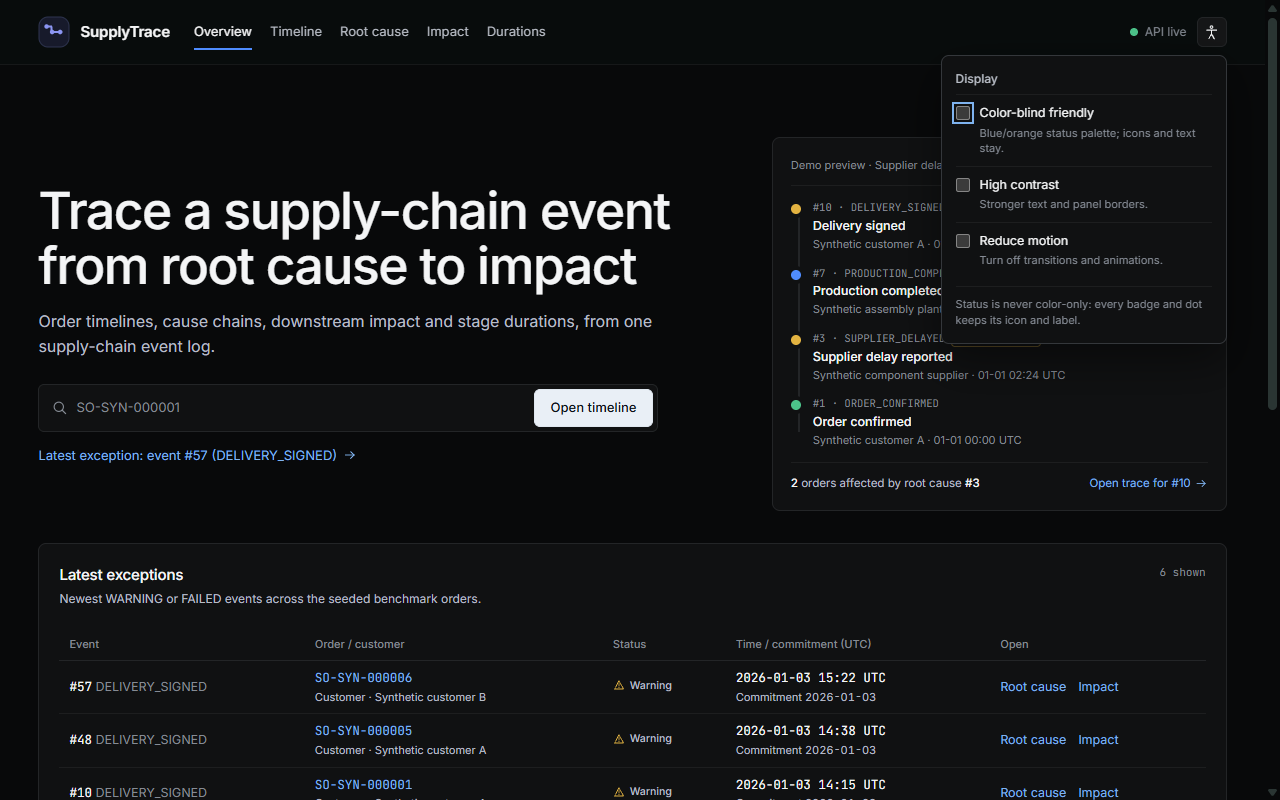
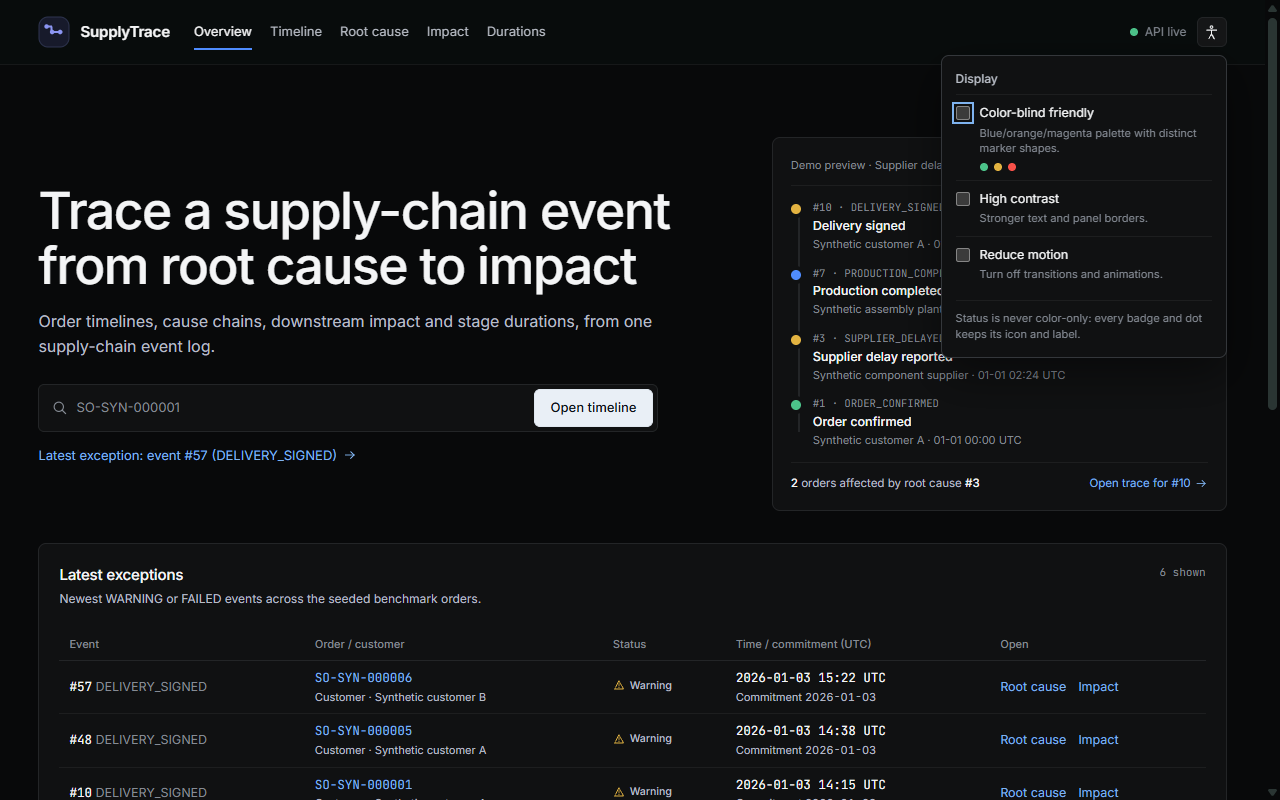
fix(frontend): make color-blind mode visibly distinct
Use a blue/orange/magenta palette and distinct status marker shapes (square warning, diamond failed, hollow cancelled) instead of only shifting colors. Add a status swatch preview to the Display menu and refresh the accessibility screenshots.

Changed region(s): [[0.75, 0.1562, 0.9375, 0.3438], [0.75, 0.375, 0.9375, 0.4375]]

diff --git a/frontend/src/styles.css b/frontend/src/styles.css
@@ -31,11 +31,11 @@
 
 /* Display preferences applied from the header menu. */
 :root[data-color-blind='true'] {
-  --good: #009e73;
+  --good: #56b4e9;
   --warning: #e69f00;
   --serious: #d55e00;
   --critical: #cc79a7;
-  --info: #56b4e9;
+  --info: #009e73;
   --cancelled: #9aa0a6;
   --accent: #0072b2;
   --accent-strong: #56b4e9;
@@ -339,6 +339,70 @@ button {
   color: var(--muted);
   font-size: 11px;
   line-height: 1.4;
+}
+
+.display__preview {
+  display: flex;
+  grid-column: 2;
+  gap: 6px;
+  margin-top: 3px;
+}
+
+.display__swatch {
+  width: 8px;
+  height: 8px;
+  border-radius: 50%;
+}
+
+.display__swatch--good {
+  background: var(--good);
+}
+
+.display__swatch--warning {
+  background: var(--warning);
+}
+
+.display__swatch--critical {
+  background: var(--critical);
+}
+
+:root[data-color-blind='true'] .display__swatch--warning {
+  border-radius: 1px;
+}
+
+:root[data-color-blind='true'] .display__swatch--critical {
+  border-radius: 1px;
+  transform: rotate(45deg);
+}
+
+:root[data-color-blind='true'] .timeline__rail--warning .timeline__dot,
+:root[data-color-blind='true'] .chain__dot--warning,
+:root[data-color-blind='true'] .status-dot--warning .status-dot__mark {
+  border-radius: 1px;
+}
+
+:root[data-color-blind='true'] .timeline__rail--critical .timeline__dot,
+:root[data-color-blind='true'] .status-dot--critical .status-dot__mark {
+  border-radius: 1px;
+  transform: rotate(45deg);
+}
+
+:root[data-color-blind='true'] .chain__dot--critical {
+  border-radius: 1px;
+  transform: translateX(-50%) rotate(45deg);
+}
+
+:root[data-color-blind='true'] .timeline__rail--muted .timeline__dot,
+:root[data-color-blind='true'] .chain__dot--muted,
+:root[data-color-blind='true'] .status-dot--muted .status-dot__mark {
+  background: transparent;
+  box-shadow: inset 0 0 0 2px var(--cancelled);
+}
+
+:root[data-color-blind='true'] .timeline__rail--muted .timeline__dot {
+  box-shadow:
+    inset 0 0 0 2px var(--cancelled),
+    0 0 0 4px var(--page);
 }
 
 .display__note {

diff --git a/frontend/src/components/DisplayMenu.tsx b/frontend/src/components/DisplayMenu.tsx
@@ -46,7 +46,7 @@ const OPTIONS: Array<{
   {
     key: 'colorBlind',
     label: 'Color-blind friendly',
-    hint: 'Blue/orange status palette; icons and text stay.',
+    hint: 'Blue/orange/magenta palette with distinct marker shapes.',
   },
   {
     key: 'highContrast',
@@ -136,6 +136,13 @@ export function DisplayMenu() {
               />
               <span className="display__option-label">{option.label}</span>
               <span className="display__option-hint">{option.hint}</span>
+              {option.key === 'colorBlind' ? (
+                <span className="display__preview" aria-hidden="true">
+                  <span className="display__swatch display__swatch--good" />
+                  <span className="display__swatch display__swatch--warning" />
+                  <span className="display__swatch display__swatch--critical" />
+                </span>
+              ) : null}
             </label>
           ))}
           <p className="display__note">

diff --git a/docs/part4/README.md b/docs/part4/README.md
@@ -53,7 +53,7 @@ Precision Dark：中性石墨表面、发丝边框、单一蓝色强调色；Nor
 - 最新异常表补充客户与承诺日期（订单号/时间下方副行），耗时页主指标改为 `Slowest P90`，平均值保留在副文案和图表中。
 - 导航以 sessionStorage 记住最近一组有效上下文（订单、事件及其所属订单）；从事件页回到 Overview 后，Timeline / Root cause / Impact 不再跳回 demo 默认值，事件导航链接也继续带 `?order=`。从事件进入订单时间线后，该订单的 Root cause / Impact 保持刚看过的事件；直接打开订单时由时间线发布该订单最新异常作为锚点，不会落到另一个订单的场景根事件。
 - 导航逻辑不绑定具体订单号/事件号：订单页来自时间线响应，事件页来自 URL；demo 订单列表、场景映射和默认值集中在 `demo.ts`。接入真实订单时把服务端订单列表传给 `useRecentExceptions(orderNumbers)` 并替换演示默认值即可；不带 `?order=` 的真实事件深链还需后端在事件响应中补 `order_number`。
-- `npm run typecheck`、`npm run build`、`npm test` 通过（8 个测试文件、43 项测试）；路由级代码分割后主包 293.2 kB（gzip 92.3 kB），耗时页 378.1 kB（gzip 108.9 kB，含 Recharts）。
+- `npm run typecheck`、`npm run build`、`npm test` 通过（8 个测试文件、43 项测试）；路由级代码分割后主包 293.6 kB（gzip 92.4 kB），耗时页 378.1 kB（gzip 108.9 kB，含 Recharts）。
 - 数据 GET 请求对网络错误和 502/503/504 自动重试一次（约 300 ms 后）；懒加载 chunk 失效时 `ErrorBoundary` 自动刷新一次，减少偶发错误页需要手动刷新的情况。
 
 ## 三个基准场景的界面证据

diff --git a/frontend/README.md b/frontend/README.md
@@ -120,6 +120,6 @@ frontend/
 - `npm test` 通过：8 个测试文件、43 项测试（ID 解析、日期解析、阶段统计、图深度/选中节点、演示场景与 `benchmark_cases.json` 对齐、最新异常排序、时间线倒序、导航上下文解析与持久化、时间线请求合并与单调用方取消、网络/503 重试与 404 不重试）。
 - 四个视图与供应商延期路径已在本机真实 FastAPI + PostgreSQL 上逐页截图检查（1920×1080、1280、768、512、375 宽度）；另外两个基准场景的接口返回值经 API 验证。
 - 在 100,000 事件库（seed 5003，10,989 订单）上复测：基准场景的订单时间线、根因链、影响节点数和受影响订单与 57 事件库完全一致；耗时页显示 10,989 个样本（P90 15.43 h / 平均 13.06 h）；随机订单 `SO-SYN-010989` 和随机事件 `#38546` 可正常深链；1280/375 无控制台错误或横向溢出。
-- 路由级代码分割：主包 293.2 kB（gzip 92.3 kB），耗时页 378.1 kB（gzip 108.9 kB，含 Recharts）。
+- 路由级代码分割：主包 293.6 kB（gzip 92.4 kB），耗时页 378.1 kB（gzip 108.9 kB，含 Recharts）。
 - 数据 GET 请求对网络错误和 502/503/504 自动重试一次（约 300 ms 后）；懒加载 chunk 失效时 `ErrorBoundary` 会自动刷新一次，避免开发期 HMR 或部署切换留下错误页。503/504 错误页已用受控响应拦截截图验证，错误码与 HTTP 状态均来自统一信封。
 - API 契约与错误码以 [docs/part3/API_CONTRACT.md](../docs/part3/API_CONTRACT.md) 为准；字段未在前端猜测或改名。
